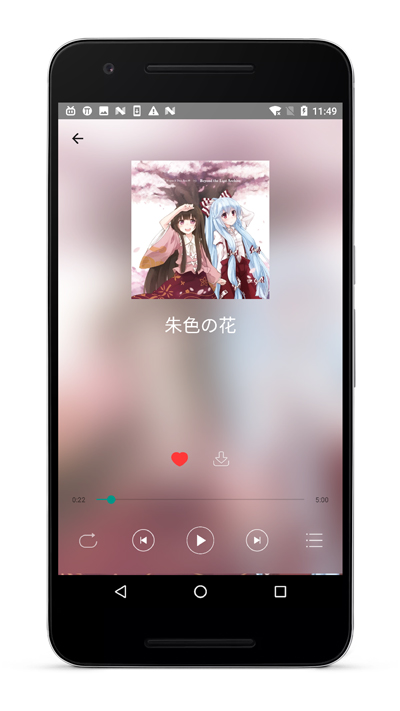
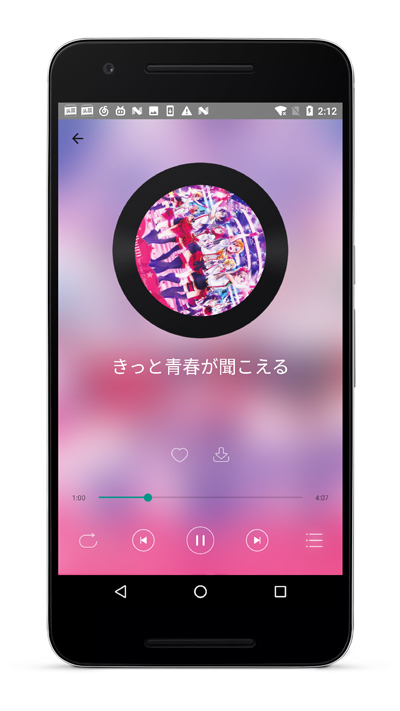
feat: animated cover

diff --git a/js/container/PlayDisc.js b/js/container/PlayDisc.js
@@ -1,0 +1,95 @@
+/**
+ * @author: Est <codeest.dev@gmail.com>
+ * @date: 2017/5/26
+ * @description:
+ */
+
+import React, {Component} from 'react'
+import {
+    View,
+    Image,
+    Animated,
+    Easing
+} from 'react-native'
+import { connect } from 'react-redux'
+
+class PlayDisc extends Component {
+
+    constructor(props) {
+        super(props);
+        this.currentValue = 0;
+        this.isRunning = false;
+        this.state = {
+            rotateAnim: new Animated.Value(0)
+        };
+    }
+
+    runAnimation(value) {
+        this.isRunning = true;
+        this.state.rotateAnim.setValue(value);
+        Animated.timing(
+            this.state.rotateAnim,
+            {
+                toValue: 360,
+                easing: Easing.linear,
+                duration: 20000 * (360 - value) / 360,
+            }
+        ).start((event) => {
+            if (event.finished) {
+                this.runAnimation(0);
+            }
+        });
+    }
+
+    storeValue = (value) => {
+        this.currentValue = value;
+    };
+
+    stopAnimation() {
+        this.isRunning = false;
+        this.state.rotateAnim.stopAnimation((value) => this.storeValue(value));
+    }
+
+    componentDidMount() {
+        if (this.props.isPlaying) {
+            this.runAnimation(0);
+        }
+    }
+
+    componentWillReceiveProps(nextProps) {
+        if (nextProps.isPlaying && !this.isRunning) {
+            this.runAnimation(this.currentValue);
+        } else if (!nextProps.isPlaying && this.isRunning){
+            this.stopAnimation();
+        }
+    }
+
+    render() {
+        return (
+            <View style={{position: 'relative', alignItems: 'center', justifyContent: 'center', marginTop: 60}}>
+                <Image style={{width: 260, height: 260}} source={require('../images/ic_disc.png') }/>
+                <Animated.Image style={{position: 'absolute', transform: [{rotate: this.state.rotateAnim.interpolate({
+                    inputRange: [0, 360],
+                    outputRange: ['0deg', '360deg']
+                })}],
+                    top: 35,
+                    left: 35,
+                    borderRadius: 100,
+                    }}
+                       source={{uri: this.props.cover, width: 190, height: 190}}
+                />
+            </View>
+        )
+    }
+}
+
+const mapStateToProps = (state) => {
+    return {
+        isPlaying: state.songs.isPlaying
+    }
+};
+
+export default connect(
+    mapStateToProps,
+    null
+)(PlayDisc)

diff --git a/js/reducer/songs.js b/js/reducer/songs.js
@@ -41,13 +41,7 @@ export default function (state, action) {
     }
     switch (action.type) {
         case ADD_SONG:
-            let newSongIndex = -1;
-            for (let i = 0; i< state.playList.length; i++) {
-                if (state.playList[i].id === action.song.id) {
-                    newSongIndex = i;
-                    break;
-                }
-            }
+            let newSongIndex = state.playList.findIndex((it) => it.id === action.song.id);
             return newSongIndex !== -1? state:
             {
                 ...state,
@@ -68,13 +62,7 @@ export default function (state, action) {
                 currentSong: diffSongs[0]
             };
         case POINT_SONG:
-            let pushSongIndex = -1;
-            for (let i = 0; i< state.playList.length; i++) {
-                if (state.playList[i].id === action.song.id) {
-                    pushSongIndex = i;
-                    break;
-                }
-            }
+            let pushSongIndex = state.playList.findIndex((it) => it.id === action.song.id);
             return pushSongIndex !== -1?
                 {
                     ...state,
@@ -106,11 +94,17 @@ export default function (state, action) {
         case NEXT_SONG:
             if (state.playList.length === 1) {
                 showToast('当前只有一首歌');
-                return state;
+                return {
+                    ...state,
+                    isPlaying: action.isFinish? false: state.isPlaying
+                };
             }
             if (state.currentIndex + 1 >= state.playList.length) {
                 showToast('已经是最后一首歌了');
-                return state;
+                return {
+                    ...state,
+                    isPlaying: action.isFinish? false: state.isPlaying
+                };
             }
             switch (state.playMode) {
                 case LOOP_MODE: //顺序播放

diff --git a/js/component/PlayerUI.js b/js/component/PlayerUI.js
@@ -20,6 +20,7 @@ import PlayButton from '../container/PlayButton'
 import LoveButton from '../container/LoveButton'
 import DownloadButton from '../container/DownloadButton'
 import PlayerSlide from '../container/PlayerSlider'
+import PlayDisc from '../container/PlayDisc'
 
 export default class PlayerUI extends Component {
 
@@ -60,10 +61,7 @@ export default class PlayerUI extends Component {
                     />
                 }
                 <View style={styles.content}>
-                    <Image
-                        source={{uri: this.props.song.cover}}
-                        style={styles.cover}
-                    />
+                    <PlayDisc cover={this.props.song.cover}/>
                     <Text style={styles.title}>{this.props.song.title}</Text>
                     <View style={styles.func}>
                         <LoveButton innerStyle={styles.icon}/>

diff --git a/js/component/MusicList.js b/js/component/MusicList.js
@@ -41,19 +41,11 @@ export default class MusicList extends Component {
 
     async fetchMusicData() {
         this.setState({refreshing: true});
-        let wikis = [];
         let result = await Api.getMusicData();
-
         let hotItems = result.response.hot_musics;
         let newItems = result.response.musics;
 
-        for (let i = 0, len = hotItems.length; i < len; i++) {
-            wikis.push(new Wiki(hotItems[i]));
-        }
-
-        for (let i = 0, len = newItems.length; i < len; i++) {
-            wikis.push(new Wiki(newItems[i]));
-        }
+        let wikis = hotItems.map((it) => new Wiki(it)).concat(newItems.map((it) => new Wiki(it)));
 
         this.setState({data: wikis, refreshing: false});
     }

diff --git a/js/middleware/player.js b/js/middleware/player.js
@@ -42,7 +42,9 @@ const playerMiddleware = store => next => action => {
             init(action.song.url);
             break;
         case NEXT_SONG:
-            init(newState.songs.currentSong.url);
+            if (newState.songs.isPlaying) {
+                init(newState.songs.currentSong.url);
+            }
             break;
         case LAST_SONG:
             init(newState.songs.currentSong.url);
@@ -102,7 +104,7 @@ const release = () => {
 const releaseAndNext = () => {
     //自然播放结束
     release();
-    storeInstance.dispatch({type: NEXT_SONG})
+    storeInstance.dispatch({type: NEXT_SONG, isFinish: true})
 };
 
 const seek = (time) => {

diff --git a/js/container/PlayerSlider.js b/js/container/PlayerSlider.js
@@ -30,7 +30,7 @@ class PlayerSlider extends Component {
         return (
             <View style={styles.progress}>
                 <Text style={styles.time}>{date.parseSecond2String(this.props.progressTime)}</Text>
-                <Slider style={{flex: 1}}
+                <Slider style={{flex: 1, margin: 3}}
                         maximumValue={this.props.totalTime || 1}
                         value={this.props.progressTime || 0}
                         onSlidingComplete={this.handleChange.bind(this)}
